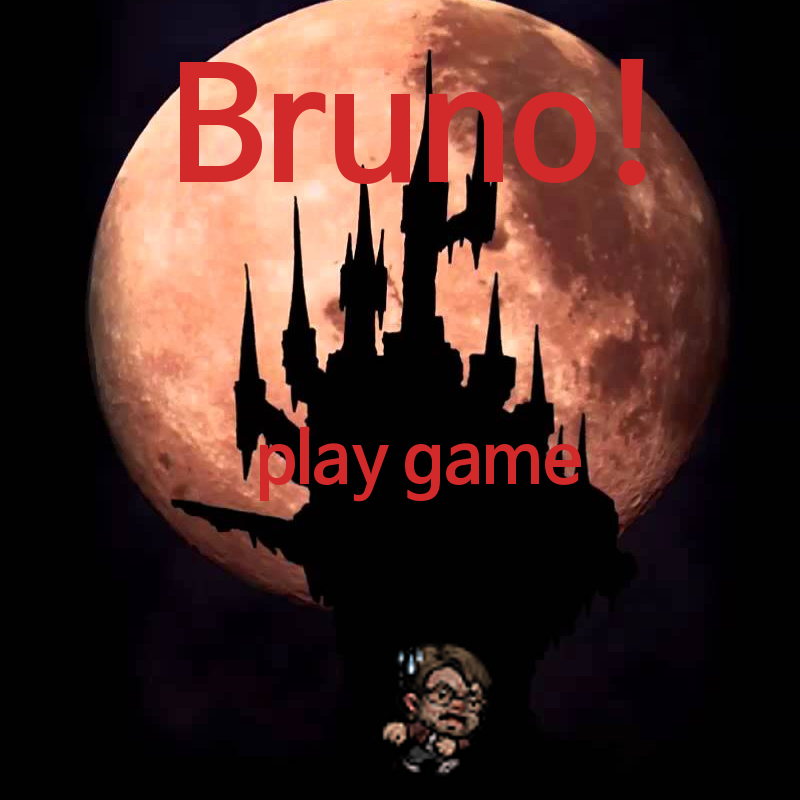
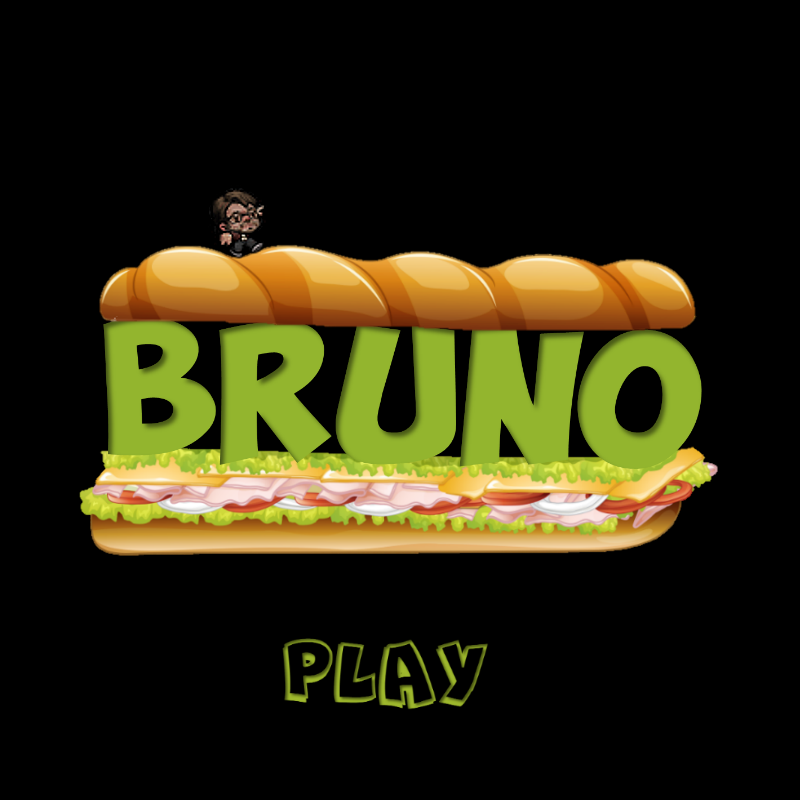
added full collisions for platforms, improved title screen

diff --git a/bruno.js b/bruno.js
@@ -102,13 +102,27 @@ Bruno.prototype.draw = function () {
 Bruno.prototype.update = function() {
 
   if (this.x < 800 && this.x > -1) {
+
+    //collision code
+    var collidedTop = false;
+    var collidedBottom = false;
+    var collidedLeft = false;
+    var collidedRight = false;
+    for(var i = 0; i < this.game.platforms.length; i++) {
+      var platform = this.game.platforms[i];
+      if(platform.collideRight(this)) collidedRight = true;
+      else if(platform.collideLeft(this)) collidedLeft = true;
+      if(platform.collideTop(this)) collidedTop = true;
+      else if(platform.collideBottom(this)) collidedBottom = true;
+    }
+
     this.isIdle = true;
-    if(this.game.keyright) {
+    if(this.game.keyright && !collidedRight) {
       if(this.x >= 400 && this.world.camera.x + 800 < this.world.worldEnds.right ) {this.world.camera.x += 1; this.worldX += 4;}
       else {this.x += 4; this.worldX += 4;}
       this.isIdle = false; this.isleft = false;
     }
-    else if(this.game.keyleft) {
+    else if(this.game.keyleft && !collidedLeft) {
       if(this.x <= 400 && this.world.camera.x > this.world.worldEnds.left ) {this.world.camera.x -= 1; this.worldX -= 4;}
       else {this.x -= 4; this.worldX -= 4;}
       this.isIdle = false; this.isleft = true;
@@ -140,7 +154,8 @@ Bruno.prototype.update = function() {
         if (jumpDistance < 0.5) {
           //var height = jumpDistance * 2 * totalHeight;
             var height = totalHeight*(-4 * (jumpDistance * jumpDistance - jumpDistance));
-            this.y = (this.ground - this.radius*2) - height; this.worldY = (this.ground - this.radius*2) - height;
+            if(collidedBottom) {this.jumpAnimation.elapsedTime = 0; this.jumping = false;}
+            else  this.y = (this.ground - this.radius*2) - height; this.worldY = (this.ground - this.radius*2) - height;
         } else {
           //begin descent
           //jumpDistance = 1 - jumpDistance;
@@ -151,14 +166,7 @@ Bruno.prototype.update = function() {
     }
 
   //falling code
-  var collided = false;
-  for(var i = 0; i < this.game.platforms.length; i++) {
-    var platform = this.game.platforms[i];
-    if(platform.collideTop(this)) {collided = true; break;}
-  }
-
-  //precursor to falling animation
-  if(!collided) {
+  if(!collidedTop) {
     if(!this.jumping) {
       this.y += this.fallVelocity; this.worldY += this.fallVelocity;
       this.fallVelocity += this.fallVelocity < 4 ? 0.2 : 0;

diff --git a/world.js b/world.js
@@ -84,3 +84,21 @@ Platform.prototype.collideTop = function (ent) {
     var diffX = ent.worldX + ent.radius < this.x + this.width && ent.worldX + ent.radius > this.x;
     return diffY && diffX;
 };
+
+Platform.prototype.collideBottom = function (ent) {
+    var diffY = Math.abs(ent.y  - (this.y + this.height)) <= 5;
+    var diffX = ent.worldX + ent.radius < this.x + this.width && ent.worldX + ent.radius > this.x;
+    return diffY && diffX;
+};
+
+Platform.prototype.collideRight = function (ent) {
+  var diffY = ent.worldY + ent.radius < this.y + this.height && ent.worldY + ent.radius > this.y;
+  var diffX = ent.worldX < this.x && ent.worldX + ent.radius*2 > this.x;
+  return diffY && diffX;
+};
+
+Platform.prototype.collideLeft = function (ent) {
+  var diffY = ent.worldY + ent.radius < this.y + this.height && ent.worldY + ent.radius > this.y;
+  var diffX = ent.worldX < this.x + this.width && ent.worldX + ent.radius*2 > this.x + this.width;
+  return diffY && diffX;
+};

diff --git a/main.js b/main.js
@@ -74,7 +74,7 @@ AM.downloadAll(function () {
     //platforms
 
     gameEngine.addPlatform(new Platform(gameEngine, background, 0, 760, 11000, 55));
-    gameEngine.addPlatform(new Platform(gameEngine, background, 5825, 485, 190, 55));
+    gameEngine.addPlatform(new Platform(gameEngine, background, 5825, 490, 190, 55));
     gameEngine.addPlatform(new Platform(gameEngine, background, 6085, 361, 630, 55));
     gameEngine.addPlatform(new Platform(gameEngine, background, 6785, 490, 380, 55));
     gameEngine.addPlatform(new Platform(gameEngine, background, 8645, 360, 1080, 55));
